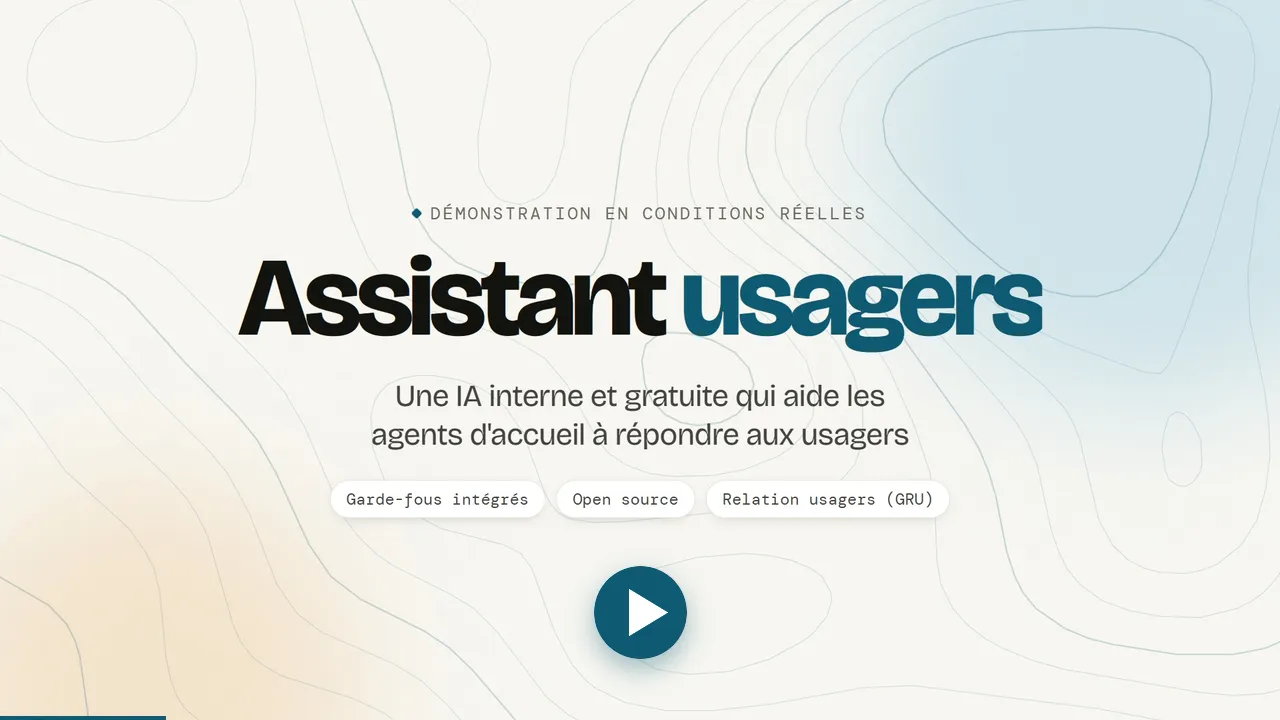
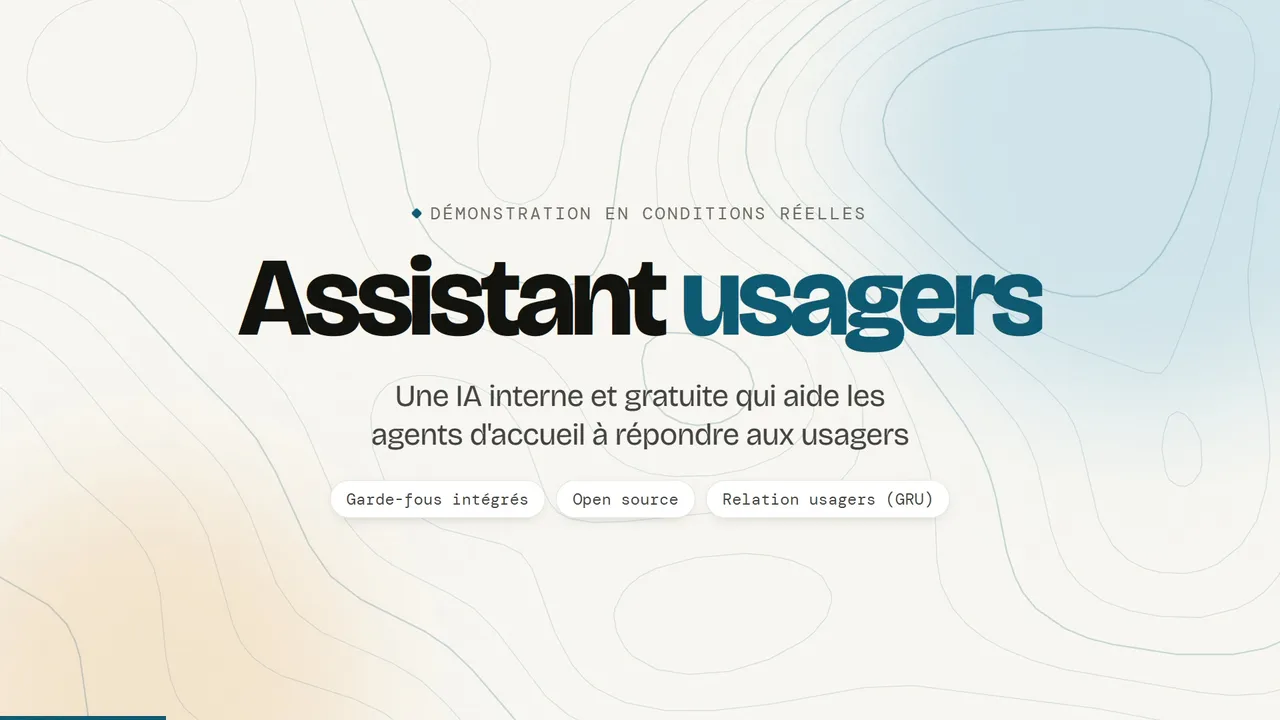
feat(portfolio): un lanceur unique pour la vidéo et les outils en ligne
Même pastille sur tout ce qui démarre : bouton rond avec halo qui pulse,
« Lancer la démo · Vidéo, 51 s » ou « Lancer l'outil · En ligne, sans
compte ». La capture entière devient cliquable (portrait des finances,
générateur de cartes, vidéo). Retirés : le bouton « Tester l'outil », la
ligne « Tester le générateur de carte » et le bouton incrusté dans
l'affiche de la vidéo. Libellés des barres de fenêtre sur une ligne.

Claude-Session: https://claude.ai/code/session_01BzJaq3ggB2eC3gVLxv9Kxm

Changed region(s): [[0.4375, 0.7639, 0.5625, 0.9472]]

diff --git a/index.html b/index.html
@@ -436,7 +436,7 @@
              border-radius: 18px; border: 1px solid var(--line); background: #F3F2EC; cursor: zoom-in; }
     .frame-bar { display: flex; align-items: center; gap: 6px; height: 30px; padding: 0 12px; border-bottom: 1px solid var(--line); }
     .frame-bar i { width: 9px; height: 9px; border-radius: 50%; background: #DAD7CC; }
-    .frame-bar span { margin-left: 8px; font-family: var(--m); font-size: .7rem; color: var(--ink-3); }
+    .frame-bar span { min-width: 0; margin-left: 8px; overflow: hidden; white-space: nowrap; text-overflow: ellipsis; font-family: var(--m); font-size: .7rem; color: var(--ink-3); }
     .frame img { width: 100%; height: auto; transition: transform .6s var(--ease); }
     .frame:hover img { transform: scale(1.015); }
     .zoom-hint {
@@ -456,6 +456,23 @@
     .frame-video video { display: block; width: 100%; height: auto; background: var(--paper); }
     .video-go { position: absolute; inset: 30px 0 0 0; border: 0; background: transparent; cursor: pointer; }
     .video-go:focus-visible { outline: 3px solid var(--accent); outline-offset: -3px; border-radius: 0 0 18px 18px; }
+
+    /* Lanceur : même pastille sur tout ce qui démarre (vidéo, outils en ligne), avec le halo qui pulse de « Et chez vous ? » */
+    .frame-lien { cursor: pointer; }
+    .lanceur { position: absolute; left: 14px; bottom: 14px; z-index: 2; display: inline-flex; align-items: center; gap: .7rem;
+               max-width: calc(100% - 28px); padding: .4rem 1.05rem .4rem .4rem; border-radius: 999px; text-align: left;
+               background: rgba(255, 255, 255, .96); box-shadow: var(--shadow-2); transition: transform .25s var(--ease); }
+    .lanceur-ic { position: relative; flex-shrink: 0; display: grid; place-items: center; width: 40px; height: 40px; border-radius: 50%;
+                  background: var(--accent); color: #fff; transition: background .2s; }
+    .lanceur-ic svg { width: 15px; height: 15px; margin-left: 2px; fill: currentColor; }
+    .lanceur-ic::after { content: ""; position: absolute; inset: 0; border-radius: 50%; border: 2px solid var(--accent);
+                         animation: lanceur 2.4s var(--ease) infinite; }
+    @keyframes lanceur { 0% { transform: scale(1); opacity: .65; } 70%, 100% { transform: scale(1.85); opacity: 0; } }
+    .lanceur-txt { display: grid; min-width: 0; line-height: 1.25; }
+    .lanceur-txt b { font-size: .95rem; font-weight: 640; color: var(--ink); }
+    .lanceur-txt small { font-family: var(--m); font-size: .72rem; color: var(--ink-3); }
+    .frame:hover .lanceur, .frame:focus-visible .lanceur, .video-go:hover .lanceur, .video-go:focus-visible .lanceur { transform: translateY(-2px); }
+    .frame:hover .lanceur-ic, .video-go:hover .lanceur-ic { background: var(--accent-ink); }
 
     .cover-award { background: var(--sand); place-items: center; align-content: center; text-align: center; gap: .9rem; }
     .cover-award::before { opacity: .25; }
@@ -523,7 +540,6 @@
     .etape-obj b { margin-right: .45rem; font-family: var(--m); font-size: .68rem; font-weight: 500; letter-spacing: .08em;
                    text-transform: uppercase; color: var(--accent); }
     .etape .frame { margin-top: .2rem; }
-    .etape .btn { margin-top: .5rem; }
     .case-duo { grid-template-columns: 1fr; gap: 12px; }
     .duo-tete { padding: clamp(10px, 1.4vw, 18px) clamp(10px, 1.4vw, 18px) 0; }
     .duo-titre { margin-top: .45rem; font-size: clamp(1.2rem, 1.8vw, 1.45rem); font-weight: 680; line-height: 1.2;
@@ -533,7 +549,6 @@
     .etape-1 { border-radius: 24px; background: var(--accent-tint); border: 1px solid var(--accent-soft); }
     .etape-2 { align-items: start; }
     .etape-2 .case-media { order: 2; }
-    .etape-1 .zoom-hint { opacity: 1; transform: none; }
     .relais { font-family: var(--m); font-size: .72rem; line-height: 1.5; color: var(--ink-3); text-align: center; }
     .relais::before { content: "↓"; margin-right: .5rem; font-size: 1rem; color: var(--accent); }
     .links { display: grid; gap: .5rem; }
@@ -692,7 +707,7 @@
     /* ── Impression : un dossier lisible pour un jury ── */
     @media print {
       @page { margin: 14mm; }
-      .gate, .nav, .progress, .skip, .lightbox, .zoom-hint, .contact-actions, .tabs { display: none !important; }
+      .gate, .nav, .progress, .skip, .lightbox, .zoom-hint, .lanceur, .contact-actions, .tabs { display: none !important; }
       [role="tabpanel"][hidden] { display: block !important; }
       .panel { animation: none; }
       .panel::before { content: attr(data-titre); display: block; margin-bottom: .3rem; font-family: var(--m);
@@ -906,13 +921,13 @@
               <div class="etape">
                 <p class="etape-tete"><span class="etape-n">Étape 1</span>Rétrospective 2018 → 2025</p>
                 <p class="etape-obj"><b>Objectif</b>Analyser la situation financière sur les dernières années et la comparer aux collectivités de même taille.</p>
-                <p><a class="btn btn-primary" href="https://castaing.dev/portrait-finances/#/synthese?t=243301504&amp;p=consolide" target="_blank" rel="noopener">Tester l'outil <svg class="i" aria-hidden="true"><use href="#i-ext"/></svg><span class="sr-only">(nouvel onglet)</span></a></p>
               </div>
-              <a class="frame" href="https://castaing.dev/portrait-finances/#/synthese?t=243301504&amp;p=consolide" target="_blank" rel="noopener" tabindex="-1">
-                <span class="frame-bar" aria-hidden="true"><i></i><i></i><i></i><span>Portrait des finances locales</span></span>
+              <a class="frame frame-lien" href="https://castaing.dev/portrait-finances/#/synthese?t=243301504&amp;p=consolide" target="_blank" rel="noopener">
+                <span class="frame-bar" aria-hidden="true"><i></i><i></i><i></i><span>castaing.dev/portrait-finances</span></span>
                 <img src="assets/img/portrait-finances.webp" width="900" height="415" loading="lazy" decoding="async"
                      alt="Portrait des finances locales : écran de synthèse de la communauté d'agglomération du Bassin d'Arcachon Nord, comptes 2025"/>
-                <span class="zoom-hint" aria-hidden="true"><svg class="i"><use href="#i-ext"/></svg>Ouvrir</span>
+                <span class="lanceur" aria-hidden="true"><span class="lanceur-ic"><svg><use href="#i-play"/></svg></span><span class="lanceur-txt"><b>Lancer l'outil</b><small>En ligne, sans compte</small></span></span>
+                <span class="sr-only">Lancer le portrait des finances locales (nouvel onglet)</span>
               </a>
             </div>
             <p class="relais">La rétrospective éclaire le budget</p>
@@ -970,12 +985,15 @@
           <article class="case rv" id="realisation-03" aria-labelledby="t03">
             <div class="case-media">
               <figure class="frame frame-video">
-                <span class="frame-bar" aria-hidden="true"><i></i><i></i><i></i><span>Démo · 51 s · 5 questions en conditions réelles</span></span>
+                <span class="frame-bar" aria-hidden="true"><i></i><i></i><i></i><span>Démo en conditions réelles</span></span>
                 <video controls preload="none" playsinline width="1920" height="1080" poster="assets/img/assistant-usagers-affiche.webp"
                        aria-label="Démonstration de l'assistant usagers : cinq questions posées en conditions réelles, dont deux refusées par les garde-fous (51 secondes, avec musique)">
                   <source src="assets/video/assistant-usagers.mp4" type="video/mp4"/>
                 </video>
-                <button class="video-go" type="button" hidden><span class="sr-only">Lire la démonstration (51 secondes, avec musique)</span></button>
+                <button class="video-go" type="button" hidden>
+                  <span class="lanceur" aria-hidden="true"><span class="lanceur-ic"><svg><use href="#i-play"/></svg></span><span class="lanceur-txt"><b>Lancer la démo</b><small>Vidéo, 51 s</small></span></span>
+                  <span class="sr-only">Lire la démonstration (51 secondes, avec musique)</span>
+                </button>
               </figure>
             </div>
             <div class="case-body">
@@ -1094,15 +1112,12 @@
           <!-- 05 -->
           <article class="case rv" id="realisation-05" aria-labelledby="t05">
             <div class="case-media">
-              <button class="frame" type="button" data-zoom="assets/img/generateur-cartes-pdf.webp">
+              <a class="frame frame-lien" href="https://castaing.dev/carte-pdf/" target="_blank" rel="noopener">
                 <span class="frame-bar" aria-hidden="true"><i></i><i></i><i></i><span>castaing.dev/carte-pdf</span></span>
                 <img src="assets/img/generateur-cartes-pdf.webp" width="1440" height="900" loading="lazy" decoding="async"
                      alt="Générateur de cartes PDF : panneau de réglage (format, orientation, échelle) et cadre d'impression sur la photo aérienne IGN du Bassin d'Arcachon"/>
-                <span class="zoom-hint" aria-hidden="true"><svg class="i"><use href="#i-zoom"/></svg>Agrandir</span>
-              </button>
-              <a class="link-row" href="https://castaing.dev/carte-pdf/" target="_blank" rel="noopener">
-                <span><small>Directement en ligne, sans installation ni compte</small>Tester le générateur de carte</span>
-                <svg class="i" aria-hidden="true"><use href="#i-ext"/></svg><span class="sr-only">(nouvel onglet)</span>
+                <span class="lanceur" aria-hidden="true"><span class="lanceur-ic"><svg><use href="#i-play"/></svg></span><span class="lanceur-txt"><b>Lancer l'outil</b><small>En ligne, sans compte</small></span></span>
+                <span class="sr-only">Lancer le générateur de cartes (nouvel onglet)</span>
               </a>
             </div>
             <div class="case-body">
